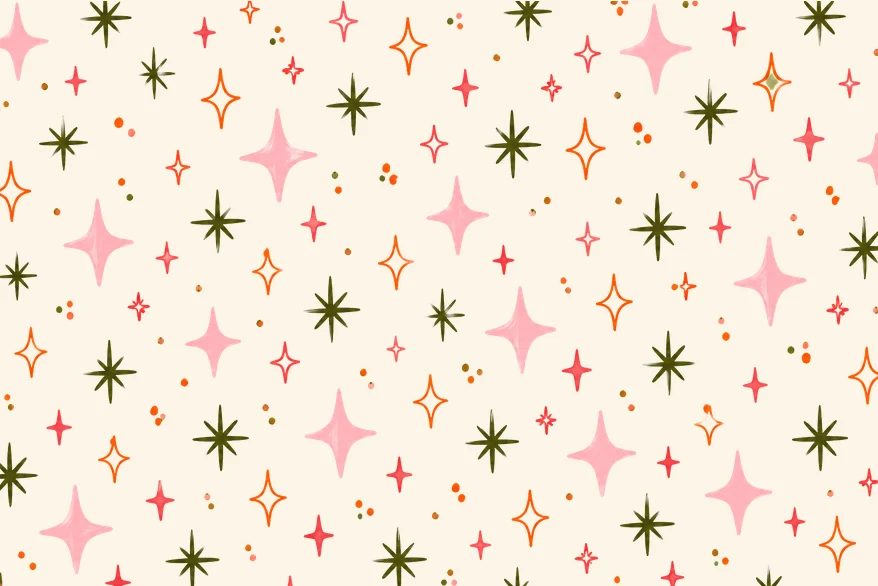
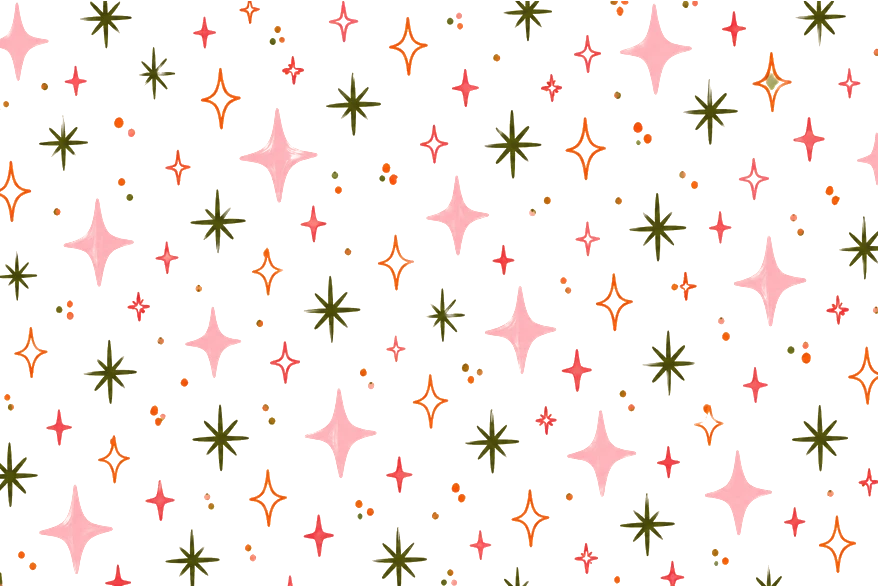
Capa rosa como o reels de lançamento
Claude-Session: https://claude.ai/code/session_01GBWdbCBCbXwDrRUAAwMmLc

diff --git a/index.html b/index.html
@@ -14,7 +14,7 @@
 /* Layout: faixa de campanha no topo, vitrine em grade, barra de sacola fixa embaixo, pedido em painel deslizante. Visual único (claro) por escolha: é a paleta da campanha. */
 :root{
   --blush:#F7C6CC; --oliva:#C3CC4E; --militar:#3F5B16; --laranja:#FF6B1A; --vinho:#790808;
-  --papel:#FFFFFF; --cartao:#FFFFFF; --tinta:#263510; --tinta-suave:#5B6A45; --linha:#EDDCDC;
+  --papel:#FFFFFF; --rosa-capa:#FAD7DE; --cartao:#FFFFFF; --tinta:#263510; --tinta-suave:#5B6A45; --linha:#EDDCDC;
   --display:"Borne Celine","Josefin Sans",Georgia,serif;
   --texto:"Josefin Sans",system-ui,-apple-system,"Segoe UI",sans-serif;
   /* prévias das letras das peças: aproximações das fontes de produção */
@@ -32,8 +32,9 @@ button{cursor:pointer}
 .demo{background:var(--militar);color:#fff;font-size:13px;font-weight:600}
 .demo .wrap{padding-block:8px}
 
-.topo{position:relative;overflow:hidden;background:#FCF3E6 url("assets/estrelas-capa.webp") center/cover no-repeat}
-.topo::before{content:"";position:absolute;inset:0;background:rgba(255,250,244,.66)}
+.topo{position:relative;overflow:hidden;background:var(--rosa-capa) url("assets/estrelas-capa.webp") center/cover no-repeat}
+.topo::before{content:"";position:absolute;inset:0;background:rgba(250,215,222,.62)}
+.topo .chip{background:#FFFFFF}
 .topo .wrap{position:relative;padding-block:28px 12px;display:grid;grid-template-columns:minmax(0,1.3fr) minmax(0,1fr);gap:16px;align-items:end}
 .topo-txt{display:grid;gap:12px;padding-bottom:28px}
 .marca{font-size:13px;letter-spacing:.14em;text-transform:uppercase;font-weight:700;color:var(--militar)}
